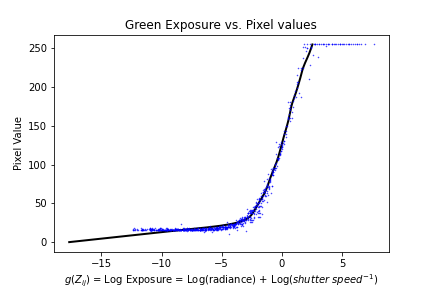
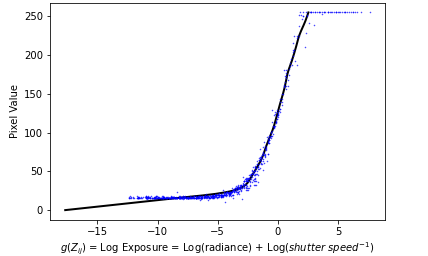
fixed plot labels

Changed region(s): [[0.0, 0.0, 0.9112, 1.0], [0.0607, 0.0312, 0.1215, 0.0938]]

diff --git a/index.html b/index.html
@@ -176,12 +176,15 @@
   <tr>
     <td>
       <img src="img/red_exposure.png" align="middle" width="400px"/>
+      <figcaption align="middle">Red Response</figcaption>
     </td>
     <td>
       <img src="img/green_exposure.png" align="middle" width="400px"/>
+      <figcaption align="middle">Green Response</figcaption>
     </td>
     <td>
       <img src="img/blue_exposure.png" align="middle" width="400px"/>
+      <figcaption align="middle">Blue response</figcaption>
     </td>
   </tr>
 </table>
